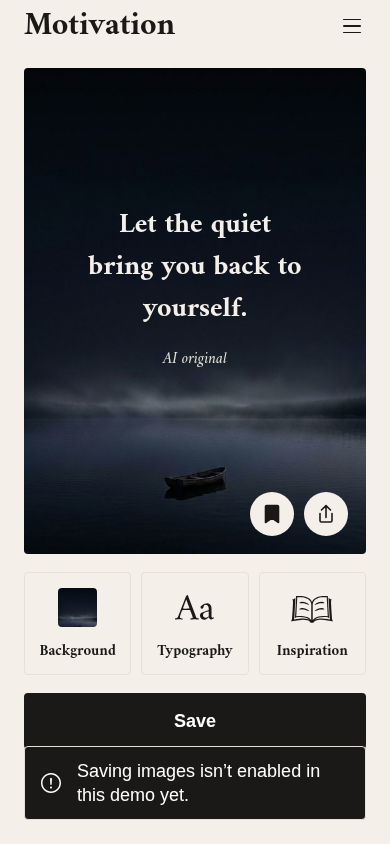
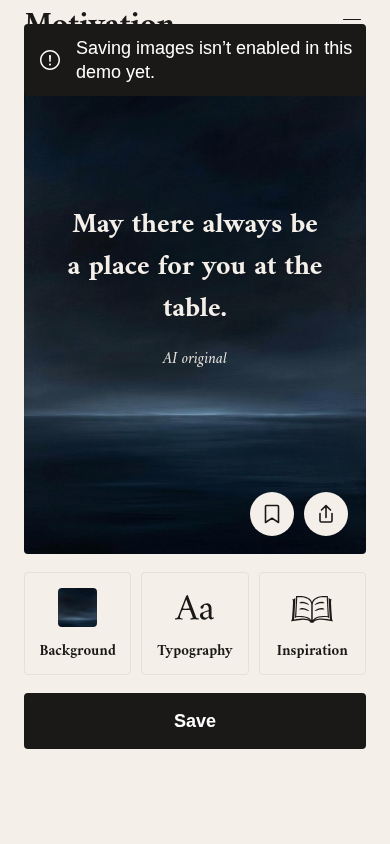
Refresh inspiration on return and animate editor transitions

diff --git a/styles.css b/styles.css
@@ -2,7 +2,7 @@
 @font-face{font-family:Amiri;font-style:normal;font-weight:700;font-display:swap;src:url("assets/fonts/amiri-latin-700-normal.woff2") format("woff2")}
 @font-face{font-family:Amiri;font-style:italic;font-weight:400;font-display:swap;src:url("assets/fonts/amiri-latin-400-italic.woff2") format("woff2")}
 :root{--page:#F5EFE9;--ink:#1A1918;--secondary:#625F5D;--border:#E6E0DA;--input:rgba(255,255,255,.5);--serif:Amiri,Georgia,'Times New Roman',serif;--sans:-apple-system,BlinkMacSystemFont,'Helvetica Neue',sans-serif;--gutter:24px;color:var(--ink);font-family:var(--sans);background:var(--page);font-synthesis:none}
-*{box-sizing:border-box}body{margin:0}button,textarea{font:inherit;color:inherit}button{cursor:pointer;touch-action:manipulation}button{border:0;background:transparent}button:active{opacity:.78}button:focus-visible{outline:2px solid var(--secondary);outline-offset:3px}button:disabled{cursor:wait;opacity:.5}[hidden]{display:none!important}.app{max-width:430px;margin:0 auto;min-height:100dvh;padding:env(safe-area-inset-top) var(--gutter) calc(32px + env(safe-area-inset-bottom))}.header{display:flex;align-items:center;justify-content:space-between;margin-bottom:16px;height:52px}.brand{font:700 32px/1 var(--serif);padding:0;min-height:44px}.icon-button{width:44px;height:44px;display:flex;align-items:center;justify-content:center}.menu{flex-direction:column;gap:5px;margin-right:-8px}.menu span{width:18px;height:1.5px;background:var(--ink);border-radius:1px}.preview-wrap{position:relative}.wallpaper{position:relative;width:100%;aspect-ratio:342/486;border-radius:4px;overflow:hidden;container-type:inline-size;background:#ddd}.wallpaper-image{position:absolute;inset:0;width:100%;height:100%;object-fit:cover}.wallpaper-copy{color:#F5EFE9;position:absolute;left:12.28%;right:12.28%;top:30%;max-height:51%;overflow:auto;scrollbar-width:thin;text-align:center;overflow-wrap:anywhere}.quote{font:700 8.187cqw/1.5 var(--serif);white-space:pre-wrap;margin:0}.source{font:italic 400 4.678cqw/1.25 var(--serif);margin:5.26cqw 0 0;color:#E6E0DA;white-space:pre-wrap}.source:empty{display:none}.preview-actions{position:absolute;right:18px;bottom:18px;display:flex;gap:10px}.circle{width:44px;height:44px;background:var(--page);border-radius:50%;display:grid;place-items:center}.circle[aria-pressed=true] svg path{fill:var(--ink)}.entries{display:grid;grid-template-columns:repeat(3,minmax(0,1fr));gap:10px;margin:18px 0}.entry{min-width:0;height:103px;border:1px solid var(--border);border-radius:4px;display:flex;flex-direction:column;align-items:center;justify-content:center;gap:12px;padding:12px 2px;font:700 16px/20px var(--serif)}.entry>img{width:39px;height:39px;object-fit:cover;border-radius:4px}.entry>svg{height:39px}.aa{font:400 39px/39px var(--serif)}.primary{width:100%;height:56px;background:var(--ink);color:white;font-size:18px;font-weight:700;border-radius:4px}.error{font-size:13px;line-height:20px;color:#9C3B32;margin-top:12px}.editor{position:fixed;inset:0;z-index:10;background:transparent;width:min(100%,430px);margin:auto;height:var(--editor-height,100dvh)}.preview-backdrop{z-index:0;position:absolute;inset:calc(68px + env(safe-area-inset-top)) 0 auto;width:100%;height:calc(41% - 68px - env(safe-area-inset-top));display:flex;align-items:center;justify-content:center;padding-top:0}.mini-preview{display:block;width:38%;max-height:90%}.mini-preview .wallpaper-copy{scrollbar-width:none}.sheet{z-index:1;position:absolute;bottom:0;width:100%;height:59%;background:var(--page);box-shadow:0 0 40px rgba(128,64,0,.1);border-radius:4px 4px 0 0;display:flex;flex-direction:column;transition:height .24s cubic-bezier(.22,1,.36,1)}.sheet.expanded{height:calc(100% - 20px - env(safe-area-inset-top))}.sheet.dragging{transition:none}.sheet-heading{position:relative;height:44px;flex-shrink:0;display:flex;justify-content:center}.handle{width:130px;height:44px;display:grid;place-items:center;touch-action:none}.handle span{width:46px;height:4px;background:#C4BFBA;border-radius:3px}.tabs{height:48px;flex-shrink:0;display:flex;justify-content:center;border-bottom:1px solid var(--border)}.tabs button{width:88px;font:700 18px/24px var(--serif);position:relative;min-height:44px}.tabs button[aria-selected=true]:after{content:'';position:absolute;width:48px;height:4px;background:var(--ink);bottom:0;left:50%;transform:translateX(-50%)}.sheet-content{overflow:auto;overscroll-behavior:contain;flex:1;padding:24px var(--gutter) calc(24px + env(safe-area-inset-bottom))}.image-grid{display:grid;grid-template-columns:repeat(3,minmax(0,1fr));gap:10px}.image-option{position:relative;aspect-ratio:107/190;padding:0;border-radius:4px;overflow:hidden;background:#D9D9D9}.image-option img{width:100%;height:100%;object-fit:cover;display:block}.image-option[aria-pressed=true]{box-shadow:0 0 0 2px var(--ink);outline-offset:4px}.selected-mark{display:none;position:absolute;right:6px;bottom:6px;width:22px;height:22px;align-items:center;justify-content:center;background:var(--page);border-radius:50%;font-size:14px}.image-option[aria-pressed=true] .selected-mark{display:flex}label,.field-label{display:block;font:700 16px/20px var(--serif);margin-bottom:10px}textarea{display:block;width:100%;resize:vertical;background:var(--input);border:1px solid var(--border);border-radius:4px;padding:10px 18px;font:400 16px/24px var(--sans);margin:0 0 18px;min-height:68px}textarea::placeholder{color:#827B74;opacity:1}textarea:focus{outline:1px solid var(--secondary);border-color:var(--secondary)}#quote-input{min-height:116px;color:#C4BFBA}#quote-input::placeholder{color:#C4BFBA}.alignment{display:grid;grid-template-columns:repeat(3,1fr);height:56px;padding:5px;border:1px solid var(--border);background:var(--input);border-radius:4px}.alignment button{height:44px;border:1px solid transparent;border-radius:4px;display:grid;place-items:center}.alignment button[aria-pressed=true]{background:var(--page);border-color:var(--border)}.categories{display:flex;gap:10px;overflow:auto;margin:0 calc(-1 * var(--gutter)) 16px;padding:0 var(--gutter) 4px;scrollbar-width:thin}.category{flex-shrink:0;min-height:44px;padding:0 14px;border:1px solid var(--border);border-radius:4px;background:#F7F1EA;color:var(--secondary);font-size:14px}.category[aria-pressed=true]{color:white;background:var(--ink);border-color:var(--ink)}.ideas-grid{display:grid;grid-template-columns:repeat(2,minmax(0,1fr));gap:10px;align-items:start}.idea{padding:18px;border:1px solid var(--border);border-radius:4px;font:400 16px/24px var(--serif);overflow-wrap:anywhere;min-height:100px}.idea[aria-pressed=true]{border-color:var(--ink);background:var(--input);box-shadow:inset 0 0 0 .5px var(--ink)}.idea-source{display:block;font:italic 12px/18px var(--serif);color:var(--secondary)}.idea-source:before{content:'';display:block;width:24px;height:1px;background:var(--border);margin:10px auto 6px}.helper{font-size:13px;line-height:20px;color:var(--secondary);margin-top:18px}.toast{position:fixed;z-index:30;bottom:calc(24px + env(safe-area-inset-bottom));left:50%;transform:translate(-50%,12px);display:flex;align-items:center;gap:12px;width:max-content;max-width:calc(min(100vw,430px) - 48px);border:1px solid var(--border);border-radius:4px;background:var(--ink);color:#fff;padding:12px;font:400 18px/24px var(--sans);opacity:0;pointer-events:none;transition:opacity .2s,transform .2s;text-align:left}#toast-icon{width:28px;height:28px;flex:0 0 28px}#toast-message{min-width:0;overflow-wrap:anywhere;white-space:normal}.toast.visible{opacity:1;transform:translate(-50%,0)}
+*{box-sizing:border-box}body{margin:0}button,textarea{font:inherit;color:inherit}button{cursor:pointer;touch-action:manipulation}button{border:0;background:transparent}button:active{opacity:.78}button:focus-visible{outline:2px solid var(--secondary);outline-offset:3px}button:disabled{cursor:wait;opacity:.5}[hidden]{display:none!important}.app{max-width:430px;margin:0 auto;min-height:100dvh;padding:env(safe-area-inset-top) var(--gutter) calc(32px + env(safe-area-inset-bottom))}.header{display:flex;align-items:center;justify-content:space-between;margin-bottom:16px;height:52px}.brand{font:700 32px/1 var(--serif);padding:0;min-height:44px}.icon-button{width:44px;height:44px;display:flex;align-items:center;justify-content:center}.menu{flex-direction:column;gap:5px;margin-right:-8px}.menu span{width:18px;height:1.5px;background:var(--ink);border-radius:1px}.preview-wrap{position:relative}.wallpaper{position:relative;width:100%;aspect-ratio:342/486;border-radius:4px;overflow:hidden;container-type:inline-size;background:#ddd}.wallpaper-image{position:absolute;inset:0;width:100%;height:100%;object-fit:cover}.wallpaper-copy{color:#F5EFE9;position:absolute;left:12.28%;right:12.28%;top:30%;max-height:51%;overflow:auto;scrollbar-width:thin;text-align:center;overflow-wrap:anywhere}.quote{font:700 8.187cqw/1.5 var(--serif);white-space:pre-wrap;margin:0}.source{font:italic 400 4.678cqw/1.25 var(--serif);margin:5.26cqw 0 0;color:#E6E0DA;white-space:pre-wrap}.source:empty{display:none}.preview-actions{position:absolute;right:18px;bottom:18px;display:flex;gap:10px}.circle{width:44px;height:44px;background:var(--page);border-radius:50%;display:grid;place-items:center}.circle[aria-pressed=true] svg path{fill:var(--ink)}.entries{display:grid;grid-template-columns:repeat(3,minmax(0,1fr));gap:10px;margin:18px 0}.entry{min-width:0;height:103px;border:1px solid var(--border);border-radius:4px;display:flex;flex-direction:column;align-items:center;justify-content:center;gap:12px;padding:12px 2px;font:700 16px/20px var(--serif)}.entry>img{width:39px;height:39px;object-fit:cover;border-radius:4px}.entry>svg{height:39px}.aa{font:400 39px/39px var(--serif)}.primary{width:100%;height:56px;background:var(--ink);color:white;font-size:18px;font-weight:700;border-radius:4px}.error{font-size:13px;line-height:20px;color:#9C3B32;margin-top:12px}.editor{position:fixed;inset:0;z-index:10;background:transparent;width:min(100%,430px);margin:auto;height:var(--editor-height,100dvh)}.preview-backdrop{z-index:0;position:absolute;inset:calc(68px + env(safe-area-inset-top)) 0 auto;width:100%;height:calc(41% - 68px - env(safe-area-inset-top));display:flex;align-items:center;justify-content:center;padding-top:0}.mini-preview{display:block;width:38%;max-height:90%}.mini-preview .wallpaper-copy{scrollbar-width:none}.sheet{z-index:1;position:absolute;bottom:0;width:100%;height:59%;background:var(--page);box-shadow:0 0 40px rgba(128,64,0,.1);border-radius:4px 4px 0 0;display:flex;flex-direction:column;transition:height .24s cubic-bezier(.22,1,.36,1)}.sheet.expanded{height:calc(100% - 20px - env(safe-area-inset-top))}.sheet.dragging{transition:none}.sheet-heading{position:relative;height:44px;flex-shrink:0;display:flex;justify-content:center}.handle{width:130px;height:44px;display:grid;place-items:center;touch-action:none}.handle span{width:46px;height:4px;background:#C4BFBA;border-radius:3px}.tabs{height:48px;flex-shrink:0;display:flex;justify-content:center;border-bottom:1px solid var(--border)}.tabs button{width:88px;font:700 18px/24px var(--serif);position:relative;min-height:44px}.tabs button[aria-selected=true]:after{content:'';position:absolute;width:48px;height:4px;background:var(--ink);bottom:0;left:50%;transform:translateX(-50%)}.sheet-content{overflow:auto;overscroll-behavior:contain;flex:1;padding:24px var(--gutter) calc(24px + env(safe-area-inset-bottom))}.image-grid{display:grid;grid-template-columns:repeat(3,minmax(0,1fr));gap:10px}.image-option{position:relative;aspect-ratio:107/190;padding:0;border-radius:4px;overflow:hidden;background:#D9D9D9}.image-option img{width:100%;height:100%;object-fit:cover;display:block}.image-option[aria-pressed=true]{box-shadow:0 0 0 2px var(--ink);outline-offset:4px}.selected-mark{display:none;position:absolute;right:6px;bottom:6px;width:22px;height:22px;align-items:center;justify-content:center;background:var(--page);border-radius:50%;font-size:14px}.image-option[aria-pressed=true] .selected-mark{display:flex}label,.field-label{display:block;font:700 16px/20px var(--serif);margin-bottom:10px}textarea{display:block;width:100%;resize:vertical;background:var(--input);border:1px solid var(--border);border-radius:4px;padding:10px 18px;font:400 16px/24px var(--sans);margin:0 0 18px;min-height:68px}textarea::placeholder{color:#827B74;opacity:1}textarea:focus{outline:1px solid var(--secondary);border-color:var(--secondary)}#quote-input{min-height:116px;color:#C4BFBA}#quote-input::placeholder{color:#C4BFBA}.alignment{display:grid;grid-template-columns:repeat(3,1fr);height:56px;padding:5px;border:1px solid var(--border);background:var(--input);border-radius:4px}.alignment button{height:44px;border:1px solid transparent;border-radius:4px;display:grid;place-items:center}.alignment button[aria-pressed=true]{background:var(--page);border-color:var(--border)}.categories{display:flex;gap:10px;overflow:auto;margin:0 calc(-1 * var(--gutter)) 16px;padding:0 var(--gutter) 4px;scrollbar-width:thin}.category{flex-shrink:0;min-height:44px;padding:0 14px;border:1px solid var(--border);border-radius:4px;background:#F7F1EA;color:var(--secondary);font-size:14px}.category[aria-pressed=true]{color:white;background:var(--ink);border-color:var(--ink)}.ideas-grid{display:grid;grid-template-columns:repeat(2,minmax(0,1fr));gap:10px;align-items:start}.idea{padding:18px;border:1px solid var(--border);border-radius:4px;font:400 16px/24px var(--serif);overflow-wrap:anywhere;min-height:100px}.idea[aria-pressed=true]{border-color:var(--ink);background:var(--input);box-shadow:inset 0 0 0 .5px var(--ink)}.idea-source{display:block;font:italic 12px/18px var(--serif);color:var(--secondary)}.idea-source:before{content:'';display:block;width:24px;height:1px;background:var(--border);margin:10px auto 6px}.helper{font-size:13px;line-height:20px;color:var(--secondary);margin-top:18px}.toast{position:fixed;z-index:30;top:calc(24px + env(safe-area-inset-top));bottom:auto;left:50%;transform:translate(-50%,-12px);display:flex;align-items:center;gap:12px;width:max-content;max-width:calc(min(100vw,430px) - 48px);border:0;border-radius:4px;background:var(--ink);color:#fff;padding:12px;font:400 18px/24px var(--sans);opacity:0;pointer-events:none;transition:opacity .2s,transform .2s;text-align:left}#toast-icon{width:28px;height:28px;flex:0 0 28px}#toast-message{min-width:0;overflow-wrap:anywhere;white-space:normal}.toast.visible{opacity:1;transform:translate(-50%,0)}
 @media(max-width:350px){:root{--gutter:16px}.app{padding-top:env(safe-area-inset-top)}.entry{font-size:15px}.idea{padding:14px}}
 @media(prefers-reduced-motion:reduce){*,*:before,*:after{transition:none!important;scroll-behavior:auto!important}}
 
@@ -21,3 +21,5 @@ body.editing #home{visibility:hidden}
 .language-check{visibility:hidden}.settings-row[aria-pressed=true] .language-check{visibility:visible}
 
 .entry-art{width:42px;height:42px;flex:0 0 42px;display:grid;place-items:center}.entry-art img{display:block;width:39px;height:39px;object-fit:contain}.entry-art img.is-ideas{width:42px;height:42px}.entry-art .entry-bg-image{object-fit:cover;border-radius:4px}
+
+.transition-wallpaper{position:fixed;z-index:0;transform-origin:top left;pointer-events:none;margin:0}.editor.is-transitioning{pointer-events:none}

diff --git a/app.js b/app.js
@@ -23,6 +23,7 @@
   }
   const key = 'motivation.design.v3';
   const defaults = {quote:'Let the quiet\nbring you back to yourself.',source:'AI original',align:'center',background:0};
+  let previousDesign = null, lastHome = null;
   let design = {...defaults}, favorites = [], category = 'Recommended', expanded = false, returnFocus, timer, saveTimer;
   const editor = $('#editor'), sheet = $('#sheet');
   const backgrounds = $$('.image-option img').map(img => img.getAttribute('src'));
@@ -30,12 +31,13 @@
   function storageError(message) { $('#storage-error').hidden = false; $('#storage-error').textContent = t(message); }
   try {
     const raw = localStorage.getItem(key);
-    if (raw) { const saved = JSON.parse(raw); if (!valid(saved.design) || !Array.isArray(saved.favorites) || !saved.favorites.every(valid)) throw Error('Invalid saved data'); design = saved.design; favorites = saved.favorites; }
+    if (raw) { const saved = JSON.parse(raw); if (!valid(saved.design) || !Array.isArray(saved.favorites) || !saved.favorites.every(valid)) throw Error('Invalid saved data'); previousDesign = saved.design; favorites = saved.favorites;
+      if (saved.lastHome && typeof saved.lastHome.quote === 'string' && Number.isInteger(saved.lastHome.background)) lastHome = saved.lastHome; }
   } catch { storageError('Your saved design couldn’t be restored on this device.'); }
   const signature = d => JSON.stringify([d.quote,d.source,d.align,d.background]);
   function persist() {
     clearTimeout(saveTimer);
-    try { localStorage.setItem(key, JSON.stringify({design,favorites})); $('#storage-error').hidden = true; return true; }
+    try { localStorage.setItem(key, JSON.stringify({design,favorites,lastHome})); $('#storage-error').hidden = true; return true; }
     catch { storageError('Your changes couldn’t be saved on this device.'); return false; }
   }
   let lastToast = '';
@@ -78,8 +80,45 @@
     if (focus) $('#tab-'+tab).focus();
   }
   function setExpanded(value) { expanded=value; sheet.style.height=''; sheet.classList.toggle('expanded',value); $('#handle').setAttribute('aria-expanded',String(value)); $('#handle').setAttribute('aria-label',t(value ? 'Collapse editor' : 'Expand editor')); }
-  function close() { if (editor.hidden) return; editor.hidden=true; document.body.classList.remove('editing'); $('#home').inert=false; $('.header').inert=false; document.body.style.overflow=''; persist(); returnFocus?.focus(); }
-  $$('[data-open]').forEach(el => el.addEventListener('click',() => { returnFocus=el; syncFields(); changeTab(el.dataset.open); setExpanded(false); editor.hidden=false; document.body.classList.add('editing'); $('#home').inert=true; $('.header').inert=true; document.body.style.overflow='hidden'; $('#tab-'+el.dataset.open).focus(); }));
+  let motionId = 0, motionClone = null, activeAnimations = [];
+  function clearMotion() {
+    motionId++;
+    activeAnimations.forEach(animation => animation.cancel()); activeAnimations=[];
+    motionClone?.remove(); motionClone=null;
+    $('#preview-close .wallpaper').style.visibility='';
+    editor.classList.remove('is-transitioning');
+  }
+  function transitionEditor(opening, done) {
+    clearMotion();
+    if (matchMedia('(prefers-reduced-motion: reduce)').matches || !sheet.animate) { done(); return; }
+    const id=motionId;
+    const home=$('#home .wallpaper'), mini=$('#preview-close .wallpaper');
+    const full=home.getBoundingClientRect(), small=mini.getBoundingClientRect();
+    if (!full.width || !small.width) { done(); return; }
+    const clone=home.cloneNode(true); clone.classList.add('transition-wallpaper'); clone.setAttribute('aria-hidden','true'); clone.inert=true;
+    Object.assign(clone.style,{left:full.left+'px',top:full.top+'px',width:full.width+'px',height:full.height+'px'});
+    editor.append(clone); motionClone=clone; mini.style.visibility='hidden'; editor.classList.add('is-transitioning');
+    const miniature='translate('+(small.left-full.left)+'px,'+(small.top-full.top)+'px) scale('+(small.width/full.width)+')';
+    const options={duration:360,easing:'cubic-bezier(0.22,1,0.36,1)',fill:'both'};
+    activeAnimations=[
+      clone.animate([{transform:opening?'none':miniature},{transform:opening?miniature:'none'}],options),
+      sheet.animate([{transform:opening?'translateY(100%)':'translateY(0)'},{transform:opening?'translateY(0)':'translateY(100%)'}],options)
+    ];
+    Promise.all(activeAnimations.map(animation => animation.finished.catch(()=>{}))).then(() => {
+      if (motionId!==id) return;
+      clearMotion(); done();
+    });
+  }
+  function close(animate = true) {
+    if (editor.hidden) return;
+    const finish=() => { editor.hidden=true; document.body.classList.remove('editing'); $('#home').inert=false; $('.header').inert=false; document.body.style.overflow=''; persist(); returnFocus?.focus(); };
+    if (animate === false) { clearMotion(); finish(); } else transitionEditor(false,finish);
+  }
+  $$('[data-open]').forEach(el => el.addEventListener('click',() => {
+    returnFocus=el; syncFields(); changeTab(el.dataset.open); setExpanded(false); editor.hidden=false;
+    document.body.classList.add('editing'); $('#home').inert=true; $('.header').inert=true; document.body.style.overflow='hidden';
+    transitionEditor(true,() => $('#tab-'+el.dataset.open).focus());
+  }));
   $('#brand').addEventListener('click',() => window.scrollTo({top:0,behavior:'smooth'}));
   $('#preview-close').addEventListener('click',close);
   $('#menu').addEventListener('click',() => navigate('settings'));
@@ -228,6 +267,17 @@
     "category": "Family"
   }
 ];
+  function freshDesign(previous = previousDesign) {
+    const quoteChoices = ideas.filter(idea => idea.quote !== previous?.quote && idea.quote !== lastHome?.quote);
+    const imageChoices = backgrounds.map((_,index) => index).filter(index => index !== previous?.background && index !== lastHome?.background);
+    const quotes = quoteChoices.length ? quoteChoices : ideas;
+    const images = imageChoices.length ? imageChoices : backgrounds.map((_,index) => index);
+    const idea = quotes[Math.floor(Math.random() * quotes.length)];
+    const background = images[Math.floor(Math.random() * images.length)];
+    design = {...defaults, quote:idea.quote, source:idea.source, background};
+    lastHome = {quote:idea.quote, background};
+    category = 'Recommended';
+  }
   function renderIdeas() {
     $('#ideas-grid').replaceChildren();
     const filtered=ideas.filter(idea => category==='Recommended' || idea.category===category);
@@ -341,6 +391,24 @@
   function viewport() { if (window.visualViewport) { editor.style.setProperty('--editor-height',window.visualViewport.height+'px'); editor.style.top=window.visualViewport.offsetTop+'px'; } }
   window.visualViewport?.addEventListener('resize',viewport); window.visualViewport?.addEventListener('scroll',viewport); viewport();
   document.addEventListener('focusin',event => { if (event.target.matches('textarea')) setTimeout(() => event.target.scrollIntoView({block:'nearest'}),100); });
-  window.addEventListener('pagehide',persist);
+  let needsFreshHome = false;
+  function resumeHome() {
+    if (!needsFreshHome || document.visibilityState === 'hidden') return;
+    needsFreshHome = false;
+    const previous = {...design};
+    close(false);
+    freshDesign(previous); syncFields(); renderIdeas(); render(); persist();
+    window.history.replaceState(null, '', window.location.pathname + window.location.search);
+    renderRoute(false);
+    $('#text-limit').hidden = true;
+    clearTimeout(timer); $('#toast').classList.remove('visible');
+  }
+  document.addEventListener('visibilitychange', () => {
+    if (document.visibilityState === 'hidden') { persist(); needsFreshHome = true; }
+    else resumeHome();
+  });
+  window.addEventListener('pagehide', () => { persist(); needsFreshHome = true; });
+  window.addEventListener('pageshow', event => { if (event.persisted) resumeHome(); });
+  freshDesign(); persist();
   syncFields(); renderIdeas(); render(); renderRoute(false); translateUI();
 })();

diff --git a/index.html b/index.html
@@ -1,6 +1,6 @@
 <!doctype html>
 <html lang="en">
-<head><meta charset="utf-8"><meta name="viewport" content="width=device-width, initial-scale=1, viewport-fit=cover"><meta name="theme-color" content="#F5EFE9"><title>Motivation</title><link rel="stylesheet" href="styles.css?v=20261021-4"><script src="i18n.js?v=20261021-4" defer></script><script src="app.js?v=20261021-4" defer></script></head>
+<head><meta charset="utf-8"><meta name="viewport" content="width=device-width, initial-scale=1, viewport-fit=cover"><meta name="theme-color" content="#F5EFE9"><title>Motivation</title><link rel="stylesheet" href="styles.css?v=20261021-6"><script src="i18n.js?v=20261021-6" defer></script><script src="app.js?v=20261021-6" defer></script></head>
 <body>
 <div class="app">
 <header class="header"><button class="brand" id="brand">Motivation</button><button class="icon-button menu" id="menu" aria-label="Open menu"><span></span><span></span><span></span></button></header>
@@ -31,7 +31,7 @@
   <div id="detail-favorites" class="detail-panel" hidden><div id="favorites-grid" class="favorites-grid"></div><div id="favorites-empty" class="empty-state"><h2>No favorites yet</h2><p>Tap the bookmark on a wallpaper to keep it here.</p><button type="button" class="primary" id="favorites-home">Create a wallpaper</button></div></div>
   <div id="detail-language" class="detail-panel" hidden><p class="helper">Interface language only. Your wallpaper text stays unchanged.</p><div id="language-options" role="group" aria-label="Language"></div></div>
   <div id="detail-feedback" class="detail-panel" hidden><label for="feedback-input">Your feedback</label><textarea id="feedback-input" rows="6" placeholder="Tell us what could be better…"></textarea><p class="helper" id="feedback-note">Demo address only — this inbox does not receive messages.</p><p class="demo-email">feedback@motivation.example</p><button type="button" class="primary" id="copy-feedback">Copy feedback</button><p class="helper" id="feedback-status" role="status"></p></div>
-  <div id="detail-privacy" class="detail-panel policy-copy" hidden><h2>About this demo</h2><p>This notice describes Demo 0.1 and its current behavior.</p><h2>Data on this device</h2><p>Your current wallpaper, favorites and language choice are saved in this browser on this device. They are not synced to an account or another device. You can remove them by clearing this site’s browser data.</p><h2>Feedback</h2><p>Feedback is only copied when you ask. This demo does not submit it. The displayed email address is a placeholder, not a working inbox.</p><h2>Images and words</h2><p>Backgrounds and AI-written quotes are bundled with this demo. No live AI generation request is made when you choose them.</p><h2>Website hosting</h2><p>The website is hosted on GitHub Pages. GitHub may process technical request information under its own privacy policy. This notice does not describe GitHub’s practices.</p><h2>Before launch</h2><p>This notice must be updated if analytics, accounts, cloud storage, live AI or real feedback collection are added.</p></div>
+  <div id="detail-privacy" class="detail-panel policy-copy" hidden><h2>About this demo</h2><p>This notice describes Demo 0.1 and its current behavior.</p><p>Every new visit starts with a new quote and background. Favorites and your language choice are kept.</p><h2>Data on this device</h2><p>Your current wallpaper, favorites and language choice are saved in this browser on this device. They are not synced to an account or another device. You can remove them by clearing this site’s browser data.</p><h2>Feedback</h2><p>Feedback is only copied when you ask. This demo does not submit it. The displayed email address is a placeholder, not a working inbox.</p><h2>Images and words</h2><p>Backgrounds and AI-written quotes are bundled with this demo. No live AI generation request is made when you choose them.</p><h2>Website hosting</h2><p>The website is hosted on GitHub Pages. GitHub may process technical request information under its own privacy policy. This notice does not describe GitHub’s practices.</p><h2>Before launch</h2><p>This notice must be updated if analytics, accounts, cloud storage, live AI or real feedback collection are added.</p></div>
 </section>
 <div id="editor" class="editor" role="dialog" aria-modal="true" aria-label="Wallpaper editor" hidden>
 <button class="preview-backdrop" id="preview-close" aria-label="Close editor and return home"><span class="mini-preview"><div class="wallpaper"><img class="wallpaper-image" src="assets/provided-night-0.jpg" alt=""><div class="wallpaper-copy"><p class="quote"></p><p class="source"></p></div></div></span></button>

diff --git a/i18n.js b/i18n.js
@@ -812,6 +812,15 @@ window.MotivationI18n = {
       "Ginkgo op donkere steen",
       "검은 돌 위의 은행잎",
       "黒い石のイチョウ"
+    ],
+    "Every new visit starts with a new quote and background. Favorites and your language choice are kept.": [
+      "每次重新進入都會顯示新的文案與背景，收藏和語言選擇會保留。",
+      "Chaque nouvelle visite affiche un nouveau texte et un nouveau fond. Vos favoris et votre langue sont conservés.",
+      "Jeder neue Besuch beginnt mit einem neuen Text und Hintergrund. Favoriten und Sprache bleiben erhalten.",
+      "Ogni nuova visita mostra un nuovo testo e sfondo. Preferiti e lingua restano salvati.",
+      "Elk nieuw bezoek begint met nieuwe tekst en een achtergrond. Favorieten en je taalkeuze blijven bewaard.",
+      "새로 방문할 때마다 새 문구와 배경이 표시되며 즐겨찾기와 언어 설정은 유지됩니다.",
+      "再び開くたびに新しい文面と背景を表示します。お気に入りと言語設定は保持されます。"
     ]
   }
 };

diff --git a/tests/ui_smoke.py b/tests/ui_smoke.py
@@ -32,13 +32,17 @@ with sync_playwright() as p:
   q=copy.locator('.quote').bounding_box();s=copy.locator('.source').bounding_box()
   if q and s: assert q['y']+q['height']<=s['y']
  page.keyboard.press('Escape')
- assert page.locator('[data-open="type"]').evaluate('(el)=>el===document.activeElement')
- page.wait_for_timeout(250); page.reload(wait_until='networkidle')
+ expect(page.locator('[data-open="type"]')).to_be_focused()
+ page.wait_for_timeout(250)
  assert page.locator('#home .quote').inner_text()==quote
  page.locator('#favorite').click()
  assert page.locator('#favorite').get_attribute('aria-pressed')=='true'
+ saved_quote=page.locator('#home .quote').inner_text()
+ saved_image=page.locator('#home .wallpaper-image').get_attribute('src')
  page.reload(wait_until='networkidle')
- assert page.locator('#favorite').get_attribute('aria-pressed')=='true'
+ assert page.locator('#home .quote').inner_text()!=saved_quote
+ assert page.locator('#home .wallpaper-image').get_attribute('src')!=saved_image
+ assert page.locator('#favorite').get_attribute('aria-pressed')=='false'
  page.locator('[data-open="image"]').click()
  page.locator('[data-background="2"]').click()
  assert page.locator('[data-background="2"]').get_attribute('aria-pressed')=='true'
@@ -48,7 +52,7 @@ with sync_playwright() as p:
  assert page.locator('.idea').count()==3
  page.locator('.idea').first.click()
  assert page.locator('[data-background="2"]').get_attribute('aria-pressed')=='true'
- assert page.locator('[data-align="left"]').get_attribute('aria-pressed')=='true'
+ assert page.locator('[data-align="center"]').get_attribute('aria-pressed')=='true'
  page.get_by_role('button',name='Love',exact=True).click()
  assert page.locator('.idea').count()==3
  assert not page.locator('#ideas-empty').is_visible()
@@ -91,9 +95,10 @@ with sync_playwright() as p:
    assert abs(rect['x']-img['x'])<1 and abs(rect['y']-img['y'])<1
  page.keyboard.press('Escape')
  page.locator('[data-open="image"]').click()
+ page.locator('#editor:not(.is-transitioning)').wait_for()
  box=page.locator('#handle').bounding_box();x=box['x']+65;y=box['y']+22
  page.mouse.move(x,y);page.mouse.down();page.mouse.move(x,y+100,steps=8);page.mouse.up()
- assert page.locator('#editor').is_hidden()
+ expect(page.locator('#editor')).to_be_hidden()
  # Settings navigation, full-design favorites, language preference and truthful feedback.
  page.locator('#menu').click()
  page.locator('[data-settings="favorites"]').click()
@@ -103,7 +108,7 @@ with sync_playwright() as p:
  page.screenshot(path='/tmp/motivation-review/favorites.png')
  page.locator('.favorite-restore').click()
  assert page.locator('#home .quote').inner_text()==quote
- assert page.locator('#editor').is_hidden()
+ expect(page.locator('#editor')).to_be_hidden()
  page.locator('#menu').click()
  page.screenshot(path='/tmp/motivation-review/settings.png')
  page.locator('[data-settings="favorites"]').click()
@@ -136,5 +141,5 @@ with sync_playwright() as p:
  assert denied.locator('#storage-error').is_visible()
  assert 'couldn’t be saved' in denied.locator('#toast').inner_text()
  denied.close()
- print(json.dumps({'result':'passed','widths':[320,375,390,430],'checks':['layout overflow','placeholder copy','long quote attribution','reload persistence','full-design favorite persistence','background selection','idea filtering and retained layout','populated AI quote categories','pointer drag','tab snap preservation','focus return and trap','truthful export status','empty preview','background geometry','downward dismiss','storage failure rollback','no simulated status gap','expanded sheet top','sticky tabs','specified placeholder and entered text color','no close icon or AI heading','settings navigation','favorite restore and removal','language preference','feedback failure handling'],'pageErrors':errors}))
+ print(json.dumps({'result':'passed','widths':[320,375,390,430],'checks':['layout overflow','placeholder copy','long quote attribution','fresh inspiration on reload','full-design favorite persistence','background selection','idea filtering and retained layout','populated AI quote categories','pointer drag','tab snap preservation','focus return and trap','truthful export status','empty preview','background geometry','downward dismiss','storage failure rollback','no simulated status gap','expanded sheet top','sticky tabs','specified placeholder and entered text color','no close icon or AI heading','settings navigation','favorite restore and removal','language preference','feedback failure handling'],'pageErrors':errors}))
  browser.close()

diff --git a/tests/fresh_home_smoke.py b/tests/fresh_home_smoke.py
@@ -1,0 +1,52 @@
+from playwright.sync_api import sync_playwright, expect
+import json
+with sync_playwright() as p:
+ b=p.chromium.launch(executable_path='/usr/bin/chromium',args=['--no-sandbox'])
+ context=b.new_context(viewport={'width':390,'height':844})
+ page=context.new_page();errors=[];page.on('pageerror',lambda e:errors.append(str(e)))
+ page.goto('http://127.0.0.1:8080',wait_until='networkidle')
+ initial_quote=page.locator('#home .quote').inner_text()
+ initial_image=page.locator('#home .wallpaper-image').get_attribute('src')
+ page.locator('[data-open="type"]').click()
+ page.locator('#quote-input').fill('My custom words for this visit.')
+ page.locator('#source-input').fill('My source')
+ page.locator('[data-align="right"]').click()
+ page.keyboard.press('Escape')
+ page.locator('#favorite').click()
+ # Internal navigation must not discard current editing.
+ page.locator('#menu').click();page.locator('[data-settings="language"]').click()
+ page.locator('[data-language="fr"]').click();page.locator('#detail-back').click();page.locator('#settings-back').click()
+ assert page.locator('#home .quote').inner_text()=='My custom words for this visit.'
+ context.storage_state(path='/tmp/motivation-fresh-state.json')
+ page.close()
+ # Reopen an actual new tab with the same browser storage.
+ page=context.new_page();page.goto('http://127.0.0.1:8080',wait_until='networkidle')
+ assert page.locator('html').get_attribute('lang')=='fr'
+ assert page.locator('#home .quote').inner_text() not in ['My custom words for this visit.',initial_quote]
+ assert page.locator('#home .wallpaper-image').get_attribute('src')!=initial_image
+ quote=page.locator('#home .quote').inner_text();image=page.locator('#home .wallpaper-image').get_attribute('src')
+ for _ in range(4):
+  page.reload(wait_until='networkidle')
+  assert page.locator('#home .quote').inner_text()!=quote
+  assert page.locator('#home .wallpaper-image').get_attribute('src')!=image
+  quote=page.locator('#home .quote').inner_text();image=page.locator('#home .wallpaper-image').get_attribute('src')
+ page.locator('#menu').click();page.locator('[data-settings="favorites"]').click()
+ expect(page.locator('.favorite-item')).to_have_count(1)
+ assert page.locator('.favorite-item .quote').inner_text()=='My custom words for this visit.'
+ page.locator('.favorite-restore').click()
+ assert page.locator('#home .quote').inner_text()=='My custom words for this visit.'
+ assert page.locator('[data-align="right"]').get_attribute('aria-pressed')=='true'
+ # Simulate BFCache lifecycle without a fresh document; a duplicate resume must not refresh twice.
+ page.evaluate("window.dispatchEvent(new PageTransitionEvent('pagehide',{persisted:true}));window.dispatchEvent(new PageTransitionEvent('pageshow',{persisted:true}));")
+ assert page.locator('#home .quote').inner_text()!='My custom words for this visit.'
+ resumed=page.locator('#home .quote').inner_text()
+ page.evaluate("window.dispatchEvent(new PageTransitionEvent('pageshow',{persisted:true}));")
+ assert page.locator('#home .quote').inner_text()==resumed
+ # A restored state in a fresh browser context still preserves favorites and locale.
+ state=json.load(open('/tmp/motivation-fresh-state.json'))
+ restored=b.new_context(storage_state=state);other=restored.new_page();other.goto('http://127.0.0.1:8080',wait_until='networkidle')
+ assert other.locator('html').get_attribute('lang')=='fr'
+ assert other.locator('#home .quote').inner_text()!='My custom words for this visit.'
+ assert not errors,errors
+ print('PASS: new tab/reload/BFCache show fresh quote and artwork; internal edits, saved favorites and language survive correctly.')
+ b.close()

diff --git a/.agents/skills/motivation-design/SKILL.md b/.agents/skills/motivation-design/SKILL.md
@@ -22,7 +22,7 @@ The latest explicit user instructions take precedence. If requirements change, u
 - Keep the app shell light. Prefer dark, artistic, solitary, literary and atmospheric built-in wallpaper imagery. Do not add uploads or unrelated visual styles.
 - Quote editing includes quote, optional source and alignment. Do not add font, size or color controls unless requested.
 - Ideas combine a built-in library with real AI generation. Applying an idea changes quote and source only.
-- Favorites store the complete wallpaper locally. Auto-save the current design on this device. No login, cross-device sync, subscriptions, undo/redo or separate editable-works library.
+- Favorites store the complete wallpaper locally. Keep edits during the current visit, but show fresh random inspiration and artwork when the user re-enters; favorites and language remain stored. No login, cross-device sync, subscriptions, undo/redo or separate editable-works library.
 - Save exports a high-resolution image; Share shares the image. Final export ratio and resolution are explicitly deferred. Do not silently decide them.
 - Menu scope is Language, Favorites, Feedback, version information and Privacy Policy. Omit the deferred “用户didi” item. Eight interface languages, a clearly marked fictitious feedback address and demo privacy text are now confirmed; see the latest reference.
 - Settings pages are now explicitly authorized. Reuse the established visual system; use the latest confirmed eight-language options, placeholder-only feedback address, Demo 0.1 privacy notice and fixed-size input limits in the reference.
@@ -54,3 +54,5 @@ See the reference for complete tokens, measurements, component contracts and acc
 User-confirmed UI revision: no simulated iOS status-area spacer, no visible sheet close icon, and no “Original words · AI-created” heading. See the latest reference section for screenshot geometry and input color. Use the latest supplied icon assets documented in the reference.
 
 The latest supplied entry icons render at their original 39×39 (Typography) and 42×42 (Inspiration) dimensions, with internal whitespace preserved and aligned layout slots. Toasts use the supplied success/reminder SVGs and the latest 24px side-clearance specification.
+
+Latest user direction: top, borderless toasts; opening editor entries scales the wallpaper down and slides the sheet up, reversing on close and respecting reduced motion. See the latest reference for lifecycle and animation details.

diff --git a/.agents/skills/motivation-design/references/design-system.md b/.agents/skills/motivation-design/references/design-system.md
@@ -183,3 +183,10 @@ Use the supplied unmodified SVGs: Typography `Group 22.svg` at 39×39 and Inspir
 Toast styling follows the user's supplied example: #1A1918 background, white left-aligned 18/24px copy, 4px corners, 12px inner padding and 12px icon gap. Short messages hug their contents; long messages wrap with at least 24px clearance from both edges of the app, including at narrow widths. Use the supplied 28×28 SVGs: `Group 24.svg` for reminders and `Group 24 (1).svg` for success. Keep existing bottom placement and 3-second dismissal. Respect reduced motion and expose the text through an atomic polite live region.
 
 Use success only after persistence or copying actually succeeds. Input limits, unavailable saving/sharing and failed storage use reminders. Identical visible messages are not repeatedly restarted while the user keeps typing at the limit. Do not show multiple stacked runtime notifications; the design reference demonstrates variants.
+
+
+## Latest visit, toast and editor transition rules (2026-10-21)
+
+- A fresh visit shows a randomly selected built-in idea and background instead of restoring custom text. Avoid the immediately preceding quote and artwork; retain saved favorite designs and language preference. Internal editor/settings navigation preserves in-progress edits. Resume from a hidden page or BFCache also refreshes the home design once, without duplicate refresh events.
+- Toasts appear at the top, 24px plus the actual safe-area inset, with no border. Keep the existing 24px side clearance, 4px corners, supplied icons, wrapping and auto-dismissal. This supersedes the previous bottom placement and border.
+- Opening any of the three home entries scales the wallpaper smoothly from its main card to the mini preview while the sheet rises from the bottom. Close reverses the transition. Use a shared composition clone so text does not reflow mid-transition. Duration 360ms with the established easing curve; respect reduced-motion by opening/closing immediately. Clean up animation overlays after completion or interruption.

diff --git a/docs/DESIGN_SYSTEM.md b/docs/DESIGN_SYSTEM.md
@@ -183,3 +183,10 @@ Use the supplied unmodified SVGs: Typography `Group 22.svg` at 39×39 and Inspir
 Toast styling follows the user's supplied example: #1A1918 background, white left-aligned 18/24px copy, 4px corners, 12px inner padding and 12px icon gap. Short messages hug their contents; long messages wrap with at least 24px clearance from both edges of the app, including at narrow widths. Use the supplied 28×28 SVGs: `Group 24.svg` for reminders and `Group 24 (1).svg` for success. Keep existing bottom placement and 3-second dismissal. Respect reduced motion and expose the text through an atomic polite live region.
 
 Use success only after persistence or copying actually succeeds. Input limits, unavailable saving/sharing and failed storage use reminders. Identical visible messages are not repeatedly restarted while the user keeps typing at the limit. Do not show multiple stacked runtime notifications; the design reference demonstrates variants.
+
+
+## Latest visit, toast and editor transition rules (2026-10-21)
+
+- A fresh visit shows a randomly selected built-in idea and background instead of restoring custom text. Avoid the immediately preceding quote and artwork; retain saved favorite designs and language preference. Internal editor/settings navigation preserves in-progress edits. Resume from a hidden page or BFCache also refreshes the home design once, without duplicate refresh events.
+- Toasts appear at the top, 24px plus the actual safe-area inset, with no border. Keep the existing 24px side clearance, 4px corners, supplied icons, wrapping and auto-dismissal. This supersedes the previous bottom placement and border.
+- Opening any of the three home entries scales the wallpaper smoothly from its main card to the mini preview while the sheet rises from the bottom. Close reverses the transition. Use a shared composition clone so text does not reflow mid-transition. Duration 360ms with the established easing curve; respect reduced-motion by opening/closing immediately. Clean up animation overlays after completion or interruption.

diff --git a/docs/PROJECT_STATUS.md b/docs/PROJECT_STATUS.md
@@ -181,3 +181,12 @@
 - 收藏和语言存储成功、反馈复制成功用成功提示；文案超限与不可用功能用提醒。输入到顶后连续重复消息不反复闪动或延长同条提示。原有详细错误说明保留。
 - 当前实现通过原有 UI smoke、settings/limits suite，以及实际浏览器中的39/42尺寸、SVG加载、320/375/390/430轻提示边界、换行、自动消失与单文件SVG嵌入检查。
 - 最新预览截图含 toast-info.png 和 toast-success.png；规范与 Skill 已同步。
+
+## 重新进入随机首页与自然过渡（2026-10-21）
+
+- 用户明确自定义后退出再进入，应显示随机的新灵感和背景，不恢复上次自定义到首页。已实现新文档、刷新、后台返回和 BFCache 恢复时更新，并排除上一条灵感/背景；同次恢复事件只更新一次。
+- 收藏和八种语言偏好继续保留。当前访问内切面板、设置再返回不重置文案；从收藏可恢复完整作品。
+- 轻提示移到顶部24px+真实safe-area，移除描边，保留左右24px限制和供稿SVG。
+- 三入口打开时壁纸通过共享克隆平滑缩小至小预览，同时底部面板上升；关闭反向过渡。360ms，减少动态效果偏好下立即开关。克隆和动画句柄会清理，后台恢复可立即结束过渡。
+- 已通过 ui_smoke、settings_limits_smoke、fresh_home_smoke；另检查三入口过渡中尺寸、关闭清理、顶部无描边及 reduced-motion。
+- 原始上传文件不变，规范/Skill/隐私行为说明已同步。

diff --git a/README.md b/README.md
@@ -11,8 +11,9 @@ python3 -m http.server 8080 --bind 0.0.0.0
 ```
 
 Open `index.html` through that server in your browser. No build or package install
-is needed. Background images and Amiri fonts are served locally. Drafts and full
-wallpaper favorites are stored on this device, scoped to the browser origin.
+is needed. Background images and Amiri fonts are served locally. Favorites and language are stored on this device, scoped to the browser origin.
+Each new visit or return from the background shows fresh random inspiration
+and artwork. Internal navigation retains your current edits.
 
 The current implementation covers home and Image / Type / Ideas editing.
 Settings navigation, local favorite restore/removal and feedback copying are available.
@@ -37,6 +38,7 @@ Chromium at `/usr/bin/chromium` (both available in the current cloud environment
 ```sh
 python3 tests/ui_smoke.py
 python3 tests/settings_limits_smoke.py
+python3 tests/fresh_home_smoke.py
 ```
 
 This checks actual browser rendering, responsive overflow, editing, local state,
